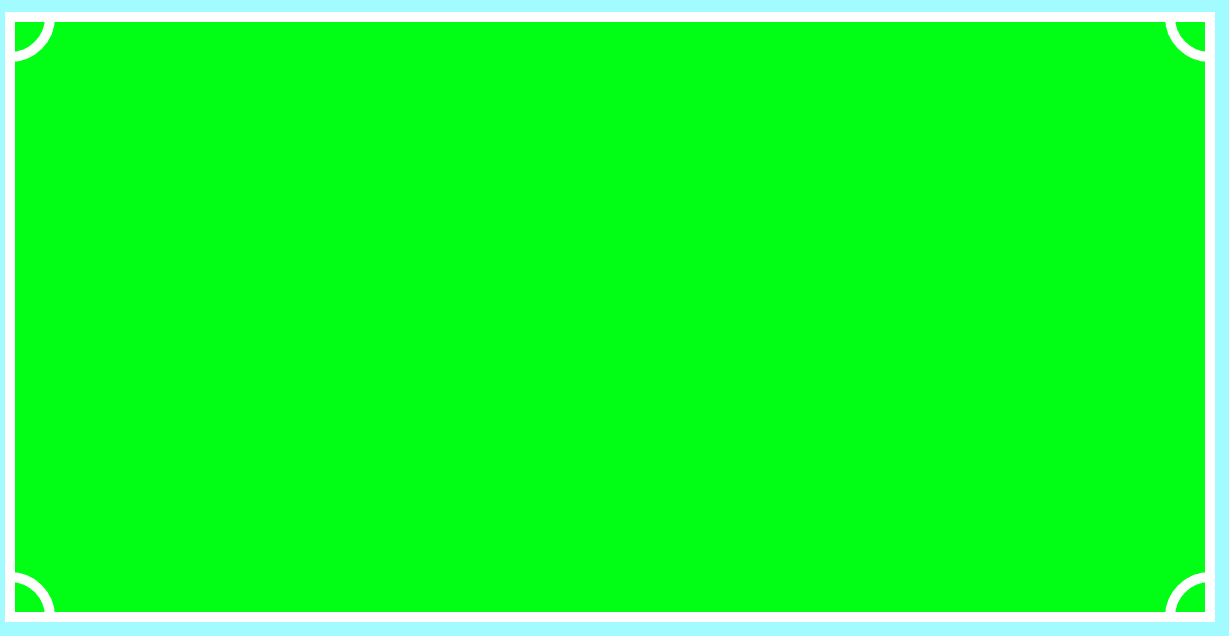
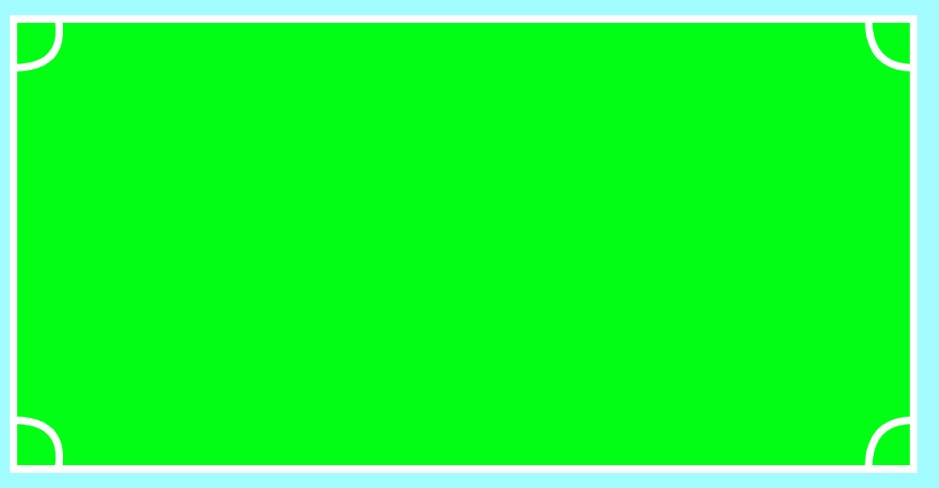
alterações

Changed region(s): [[0.0, 0.0, 0.9883, 0.9836]]

diff --git a/js/script.js b/js/script.js
@@ -2,12 +2,6 @@
 const canvas = document.getElementById('canvas');
 const ctx = canvas.getContext('2d');
 
-//grama
-//var imagem = new Image();
-//imagem.onload = function () {
-   //ctx.drawImage(this, 10, 20, 1200, 600);
-//}
-//imagem.src = 'img/grama.jpg';
 
 //campo
 ctx.fillStyle = '#00ff15';
@@ -20,195 +14,32 @@ ctx.strokeRect(10, 20, 1200, 600);
 
 //escanteio 1
 ctx.beginPath();
-ctx.arc(10, 20, 40, 0, Math.PI * 0.5, false);
+ctx.moveTo(70,20);
+ctx.quadraticCurveTo(80,85,10,85);
 ctx.stroke();
 
 //escanteio 2
 ctx.beginPath();
-ctx.arc(10, 620, 40, Math.PI * 1.5, 0, false);
+ctx.moveTo(70,620);
+ctx.quadraticCurveTo(80,555,10,555);
 ctx.stroke();
 
 //escanteio 3
 ctx.beginPath();
-ctx.arc(1210, 20, 40, Math.PI * 1, Math.PI * 0.5, true);
+ctx.moveTo(1150,20);
+ctx.quadraticCurveTo(1150,85,1210,85);
 ctx.stroke();
+
 
 //escanteio 4
 ctx.beginPath();
-ctx.arc(1210, 620, 40, Math.PI * 1.5, Math.PI * 1, true);
-ctx.stroke();
-
-//linha do meio
-ctx.beginPath();
-ctx.moveTo(610, 620);
-ctx.lineTo(610, 20);
-ctx.stroke();
-
-//circulo do meio
-ctx.beginPath();
-ctx.arc(610, 320, 100, 0, Math.PI * 2);
-ctx.stroke();
-
-//circulo pequeno do meio
-ctx.beginPath();
-ctx.arc(610, 320, 10, 0, Math.PI * 2);
-ctx.stroke();
-
-//area 1
-ctx.strokeRect(10, 160, 200, 320);
-ctx.stroke();
-
-//area 2
-ctx.strokeRect(1010, 160, 200, 320);
-ctx.stroke();
-
-// pequena area 1
-ctx.strokeRect(10, 240, 100, 160);
-ctx.stroke();
-
-//pequena area 2
-ctx.strokeRect(1110, 240, 100, 160);
+ctx.moveTo(1150,620);
+ctx.quadraticCurveTo(1150,555,1210,555);
 ctx.stroke();
 
 
-//meia lua 1
-ctx.beginPath();
-ctx.arc(210, 320, 100, Math.PI * 1.5, Math.PI * 0.5, false);
-ctx.stroke();
-
-//meia lua 2
-ctx.beginPath();
-ctx.arc(1010, 320, 100, Math.PI * 1.5, Math.PI * 0.5, true);
-ctx.stroke();
-
-//penalti 1
-ctx.fillStyle = 'white';
-ctx.beginPath();
-ctx.arc(150, 320, 10, 0, Math.PI * 2);
-ctx.stroke();
-ctx.fill();
-
-//penalti 2
-ctx.beginPath();
-ctx.arc(1060, 320, 10, 0, Math.PI * 2);
-ctx.stroke();
-ctx.fill();
-
-//jogadores corinthinas
-ctx.lineWidth = '6'
-ctx.strokeStyle = 'black'
-ctx.fillStyle = 'white';
-ctx.beginPath();
-ctx.arc(40, 320, 20, 0, Math.PI * 2);
-ctx.fill();
-ctx.stroke();
-
-ctx.beginPath();
-ctx.arc(400, 150, 20, 0, Math.PI * 2);
-ctx.fill();
-ctx.stroke();
 
 
-ctx.beginPath();
-ctx.arc(800, 400, 20, 0, Math.PI * 2);
-ctx.fill();
-ctx.stroke();
-
-ctx.beginPath();
-ctx.arc(500, 500, 20, 0, Math.PI * 2);
-ctx.fill();
-ctx.stroke();
-
-ctx.beginPath();
-ctx.arc(1000, 230, 20, 0, Math.PI * 2);
-ctx.fill();
-ctx.stroke();
-
-//jogadores são paulo
-ctx.lineWidth='6'
-ctx.strokeStyle='black'
-ctx.fillStyle='blue';
-ctx.beginPath();
-ctx.arc(1177,320, 20,0,Math.PI* 2);
-ctx.fill();
-ctx.stroke();
-
-ctx.beginPath();
-ctx.arc(440,200, 20,0,Math.PI* 2);
-ctx.fill();
-ctx.stroke();
-
-ctx.beginPath();
-ctx.arc(840,360, 20,0,Math.PI* 2);
-ctx.fill();
-ctx.stroke();
-
-ctx.beginPath();
-ctx.arc(540,450, 20,0,Math.PI* 2);
-ctx.fill();
-ctx.stroke();
-
-ctx.beginPath();
-ctx.arc(1050,270, 20,0,Math.PI* 2);
-ctx.fill();
-ctx.stroke();
-
-ctx.beginPath();
-ctx.arc(0,0, 0,0,Math.PI* 2);
-
-//numero dos jogadores do corinthians
-ctx.fillStyle = 'black';
-ctx.font = '20px Bernard MT Condensed';
-ctx.fillText('9', 794, 406);
-ctx.fillText('10', 989, 236);
-ctx.fillText('7', 494, 506);
-ctx.fillText('4', 394, 156);
-ctx.fillText('12', 29, 326);
-
-//numero dos jogadores do chelsea
-ctx.fillText('1', 1172, 326);
-ctx.fillText('3', 1044, 276);
-ctx.fillText('11', 530, 457);
-ctx.fillText('16', 828, 368);
-ctx.fillText('8', 435, 206);
-
-
-//placar cor
-ctx.fillStyle = 'black';
-ctx.fillRect(210, 5, 510, 100);
-
-//placar CHELSEA
-ctx.fillStyle = 'blue';
-ctx.fillRect(610, 5, 400, 100);
-
-//linha do placar
-ctx.strokeStyle = 'white';
-ctx.lineWidth = '5';
-ctx.strokeRect(210, 5, 800, 100);
-
-//linha que divide
-ctx.moveTo(610,105);
-ctx.lineTo(610,5);
-ctx.stroke();
-
-//placar
-ctx.fillStyle = 'white';
-ctx.font = '50px Bernard MT Condensed';
-ctx.fillText('1    0', 566, 75);
-
-//nome corinthians
-ctx.fillStyle = 'white';
-ctx.fillText('CORINTHIANS', 270, 75);
-
-//nome chelsea
-ctx.fillText('CHELSEA', 730, 75);
-
-//bola
-var imagem = new Image();
-imagem.onload = function () {
-   ctx.drawImage(this, 950, 200, 40, 40);
-}
-imagem.src = 'img/bola.png';
 
 
 

diff --git a/README.md b/README.md
@@ -1,48 +1,46 @@
-# Campo De Futebol
+# Campo de Futebol
 Atividade cena DJW - Campo de futebol
 
 # Descrição
 Leonardo e Lucas Noel
 
-# Html
-Fizemos a estrtura inicial colocamos o icone e adicionamos o Canvas e definimos seus pixeis e linkamos o javasript e o css.
+# HTML
+Fizemos a estrutura inicial, colocamos o ícone e adicionamos o Canvas, definimos seus pixels e linkamos o JavaScript e o CSS.
 
-# Css
-No css apenas definimos a cor de fundo do site.
+# CSS
+No CSS, apenas definimos a cor de fundo do site.
 
-# Java Script
-Criamos uma variável onde capturamos o elemento id "canvas". Depois, criamos outra variável que recebe o elemento "ctx" em um contexto 2D.
+# JavaScript
+Criamos uma variável onde capturamos o elemento com o id "canvas". Depois, criamos outra variável que recebe o elemento "ctx" em um contexto 2D.
 
 ## Campo
-Para o campo colocamos a cor e sua posição do retângulo.
+Para o campo, colocamos a cor e a posição do retângulo.
 
 ### Linhas do Campo
-Para as linhas nas laterais colocamos a cor o tamanho da linha e definimos a suas posições igual do campo.
+Para as linhas nas laterais, colocamos a cor, o tamanho da linha e definimos as suas posições iguais às do campo.
 
-## Escanteios 
-Os escanteios só fizemos o código do circula colocando o raio final e inicial para ficar 1/4 do círculo e usamos o false ou true para qual lado será o escanteio.
+## Escanteios
+Os escanteios fizemos com a curva quadrática, definimos o ponto final e inicial da linha e puxamos a curva do meio dela.
 
-## Linha do meio 
-Para a linha do meio apenas definimos o ponto onde se iniciaria e terminaria.<br>
-Para o circulo do meio apenas colocamos o código padrão do circulo e deixamos a linha grossa,para a bola no circulo central apenas mudamos o raio do circulo diminuindo ele.
+## Linha do meio
+Para a linha do meio, apenas definimos o ponto onde se iniciaria e terminaria.
+Para o círculo do meio, apenas colocamos o código padrão do círculo e deixamos a linha grossa. Para a bola no círculo central, apenas mudamos o raio do círculo, diminuindo-o.
 
-## Pequena e Grande Área
-Apenas criamos um quadrado maior e outro menor e colamos a linha.<br>
+## Área
+Apenas criamos um quadrado maior e outro menor e colamos a linha.
+Para as meia-luas que ficam na grande área, apenas fizemos um círculo pela metade e colocamos false ou true para mudarmos o sentido que a meia-lua está.
+A marca do pênalti usamos um círculo e preenchemos ele.
 
-Para as meia luas que ficam na grande área apenas fizemos um circulo pela metade e colocamos false ou true para mudarmos o sentido que o a meia lua está.<br>
+## Jogadores
+Usamos o mesmo código de círculo em todos os jogadores, apenas mudando sua posição e adicionamos borda, alterando a cor dele para jogadores do Corinthians e Chelsea. Adicionamos números aos jogadores com o texto e colocamos a mesma posição dos círculos.
 
-A marca do penalti usamos um círculo e preenchemos ele.
+## Placar
+Fizemos dois retângulos, um preto e outro azul, e adicionamos uma borda nele todo. Colocamos um texto para adicionar os números do placar, um texto para o nome 'Corinthians' e outro texto para 'Chelsea'. E por fim, uma linha para dividi-lo ao meio.
 
-##Jogadores
-Usamos o mesmo código de círculo em todos jogadores, apenas mudando sua pósição e adicionamos borda, alterando a cor dele para jogadores de corinthians e chelsea. Adicionamos números aos jogadores com o texto e colocamos a mesma posiçãoi dos círculos.
+## Bola
+Apenas adicionamos uma imagem da bola e definimos a sua posição.
 
-##Placar
-Fizemos dois retângulos um preto e outro azul e adicionamos uma borda nele todo. Colocamos um texto para adicionar os números do placar, um texto para o nome 'corinthians' e outro texto para 'chelsea'. E por fim uma linha para dividi-lo no meio.
-
-##Bola
-A bola apenas adicionamos uma imagem e definimos a sua posição;
-
-#Resultado Final
+# Resultado Final
 
 
 
